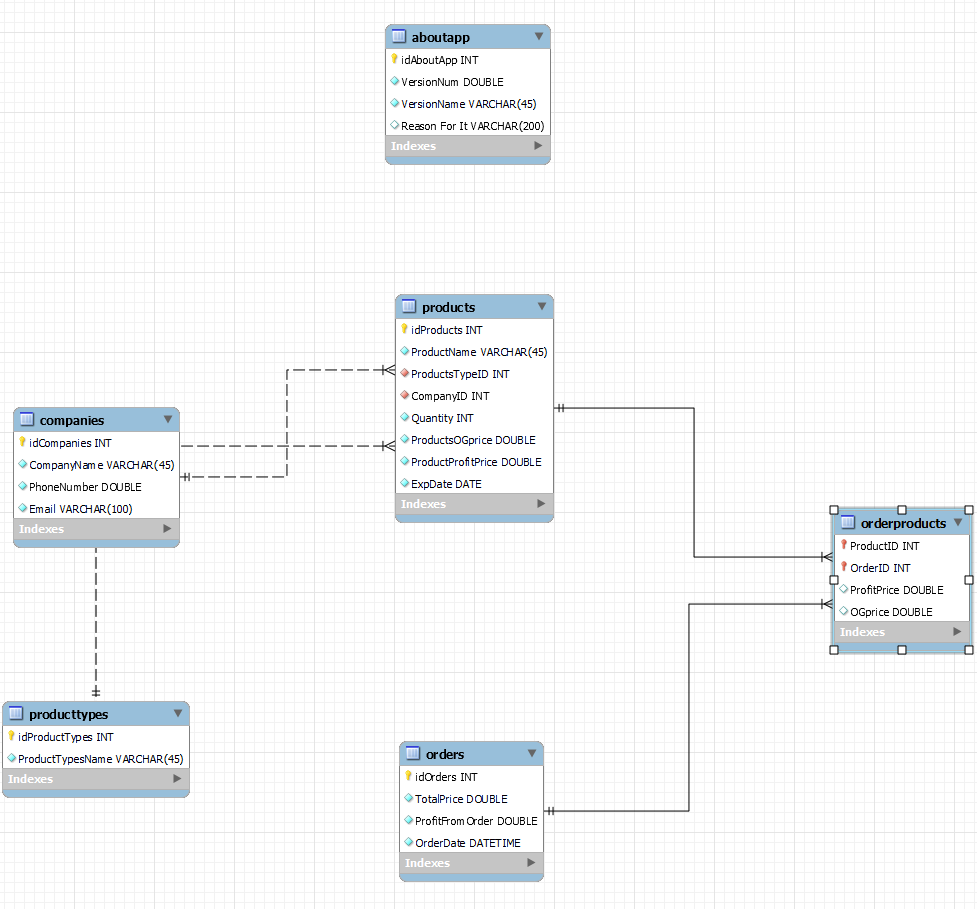
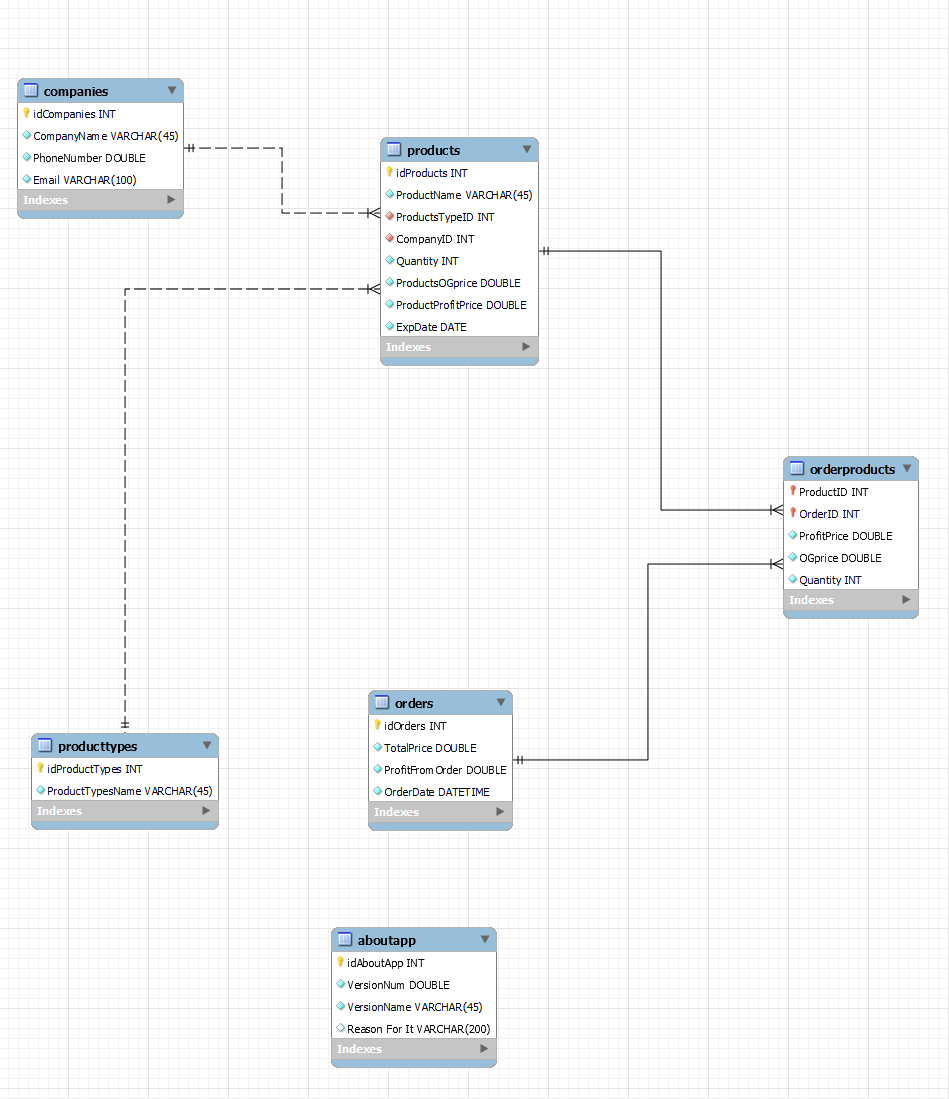
added new function in manageDB class that give you product profit price depending on the quantity ,Working in Add missing order , finshed all of it expect insertOrder , Updated the DB image , changed the design of add missing order in addremoveedit window for easier management when programing

diff --git a/DashBoardDB/AddRemoveEdIt.xaml b/DashBoardDB/AddRemoveEdIt.xaml
@@ -271,7 +271,12 @@
                 </Grid.RowDefinitions>
                 <ComboBox Name="EditType" Width="250" Height="30" VerticalAlignment="Top" FontFamily="fonts/#Dosis" BorderBrush="{x:Null}" SelectionChanged="EditType_SelectionChanged">
                 </ComboBox>
-                <TextBox Name="productnamebox" Text="" TextWrapping="Wrap" MaxHeight="30" MaxWidth="250" Margin="-1,38,1,9" Grid.RowSpan="2"  FontSize="20" FontFamily="fonts/#Dosis" KeyDown="Enter_KeyDown"/>
+                <TextBlock Name="OrderProductNameBlock" IsEnabled="False" Visibility="Hidden" Text="Name:" Margin="62,0,-62,26" FontSize="15" FontFamily="fonts/#Dosis" Foreground="White" Height="25" Grid.Row="1"/>
+                <TextBox Name="OrderProductNameBox" IsEnabled="False" Visibility="Hidden" Grid.Row="1" MaxHeight="30" MaxWidth="175" Background="White" Margin="-108,6,108,45" Grid.RowSpan="2" FontSize="20" FontFamily="fonts/#Dosis" KeyDown="Enter_KeyDown"></TextBox>
+                <TextBlock Name="OrderProductQuantityBlock" IsEnabled="False" Visibility="Hidden" Text="Quantity:" Margin="268,50,-268,27" FontSize="15" FontFamily="fonts/#Dosis" Foreground="White" Height="25" Grid.RowSpan="2"/>
+                <TextBox Name="OrderProductQuantityBox" IsEnabled="False" Visibility="Hidden" Grid.Row="1" MaxHeight="30" MaxWidth="175" Background="White" Margin="97,6,-97,45" Grid.RowSpan="2" FontSize="20" FontFamily="fonts/#Dosis" KeyDown="Enter_KeyDown" PreviewTextInput="missingorderquantitybox_PreviewTextInput"></TextBox>
+                <TextBox Name="productnamebox" Text="" TextWrapping="Wrap" MaxHeight="30" MaxWidth="250" Margin="-1,38,1,9" Grid.RowSpan="2"  FontSize="20" FontFamily="fonts/#Dosis"/>
+
                 <TextBlock Grid.Row="1" Name="productnameblock" Text="Name:" TextWrapping="Wrap" Margin="26,2,290,20" FontSize="15" FontFamily="fonts/#Dosis" Foreground="White" Height="25" />
                 <TextBlock Grid.Row="2" Name="ProductTypeBlock" Text="Type:" TextWrapping="Wrap" Margin="26,2,290,20" FontSize="15" FontFamily="fonts/#Dosis" Foreground="White" Height="25" />
                 <ComboBox Grid.Row="2" Name="TypeBox" Width="250" Height="30" VerticalAlignment="Top" FontFamily="fonts/#Dosis" BorderBrush="{x:Null}" IsEditable="True">
@@ -279,9 +284,20 @@
                 <TextBlock Grid.Row="3" Name="productogpriceblock" Text="Orignal price:" TextWrapping="Wrap" Margin="2,5,318,17" FontSize="13" FontFamily="fonts/#Dosis" Foreground="White"/>
                 <TextBox Name="productojbricebox" Text="" TextWrapping="Wrap" MaxHeight="30" MaxWidth="250" Margin="-1,38,1,9" Grid.RowSpan="2" Grid.Row="2" PreviewTextInput="quantitybox_PreviewTextInput" FontSize="20" FontFamily="fonts/#Dosis"/>
                 <TextBox Name="productpfbricebox" Text="" TextWrapping="Wrap" MaxHeight="30" MaxWidth="250" Margin="-1,38,1,9" Grid.RowSpan="2" Grid.Row="3" PreviewTextInput="quantitybox_PreviewTextInput" FontSize="20" FontFamily="fonts/#Dosis" TextChanged="productpfbricebox_TextChanged" />
-                <ScrollViewer Name="ScrollBar" Grid.Row="2" Grid.RowSpan="4" Visibility="Hidden" IsEnabled="False">
-                    <TextBlock Name="AddProductToOrderBlock" Text="Press Enter to add the product you want" Grid.Row="2" Grid.RowSpan="4" HorizontalAlignment="Center" Visibility="Hidden" FontFamily="fonts/#Dosis" FontSize="20" Foreground="White"></TextBlock>
-                </ScrollViewer>
+                <TextBlock Name="AddProductToOrderBlock" Text="" Grid.Row="2" Grid.RowSpan="4" HorizontalAlignment="Center" Visibility="Hidden" FontFamily="fonts/#Dosis" FontSize="20" Foreground="White">Press Enter to add the product you want</TextBlock>
+                <Grid Name="MissingOrderGrid" Grid.Row="3" Grid.RowSpan="4" IsEnabled="False">
+                    <Grid.ColumnDefinitions>
+                        <ColumnDefinition></ColumnDefinition>
+                        <ColumnDefinition></ColumnDefinition>
+                    </Grid.ColumnDefinitions>
+                    <ScrollViewer Name="ScrollBar" Grid.ColumnSpan="2" Visibility="Hidden" IsEnabled="False">
+                        <TextBox Name="ProductNameAndQuantityBlock" Grid.ColumnSpan="2" Visibility="Hidden" 
+                                 FontFamily="fonts/#Dosis" FontSize="20" Background="{x:Null}"  
+                                  Text="     Product:                                            Quantity:   "  Foreground="White "></TextBox>
+
+                    </ScrollViewer>
+                </Grid>
+
                 <TextBlock Grid.Row="4" Name="productpfpriceblock" Text="Profit price:" TextWrapping="Wrap" Margin="2,4,318,18" FontSize="15" FontFamily="fonts/#Dosis" Foreground="White"/>
                 <TextBlock Grid.Row="5" Name="expdateblock" Text="Exp date:" TextWrapping="Wrap" Margin="14,5,306,17" FontSize="15" FontFamily="fonts/#Dosis" Foreground="White"/>
                 <DatePicker  Name="expdatepciker" FontFamily="fonts/#Dosis" MaxHeight="30" MaxWidth="250" Margin="-2,42,2,5" Grid.RowSpan="2" Grid.Row="4" BorderBrush="{x:Null}"/>

diff --git a/DashBoardDB/AddRemoveEdIt.xaml.cs b/DashBoardDB/AddRemoveEdIt.xaml.cs
@@ -21,6 +21,10 @@ namespace DashBoardDB
         ManageDB managaDB = new();
         List<String> TypesList = new List<String>();
         List<String> CompaniesList = new List<String>();
+        List<String> MissingOrderNames = new List<String>();
+        List<int> MissingOrderQuanties = new List<int>();
+        String MissingOrderProductName = "";
+        Double MissingOrderTotalPrice = 0;
         public AddRemoveEdIt()
         {
             InitializeComponent();
@@ -174,22 +178,39 @@ namespace DashBoardDB
                 return;
             if (EditType.SelectedIndex == 3)
             {
-                productnameblock.Margin = new Thickness(15, 2, 337, 20);
-                productnameblock.Text = "Products:";
-                productnameblock.Visibility = Show;
-                productnamebox.Visibility = Show;
+                MissingOrderGrid.IsEnabled = true;
+                OrderProductNameBlock.IsEnabled = true;
+                OrderProductNameBox.IsEnabled = true;
+                OrderProductQuantityBlock.IsEnabled = true;
+                OrderProductQuantityBox.IsEnabled = true;
+                OrderProductNameBlock.Visibility = Show;
+                OrderProductNameBox.Visibility = Show;
+                OrderProductQuantityBlock.Visibility = Show;
+                OrderProductQuantityBox.Visibility = Show;
                 ScrollBar.Visibility = Show;
                 ScrollBar.IsEnabled = true;
                 AddProductToOrderBlock.Visibility = Show;
+                ProductNameAndQuantityBlock.Visibility = Show;
                 quantityblock.Text = "Price";
                 quantityblock.Visibility = Show;
                 quantitybox.Visibility = Show;
+                quantitybox.Text = "";
                 quantitybox.IsReadOnly = true;
                 Confirm.Visibility = Show;
             }
             else
             {
+                MissingOrderGrid.IsEnabled = false;
+                OrderProductNameBlock.IsEnabled = false;
+                OrderProductNameBox.IsEnabled = false;
+                OrderProductQuantityBlock.IsEnabled = false;
+                OrderProductQuantityBox.IsEnabled = false;
+                OrderProductNameBlock.Visibility = hide;
+                OrderProductNameBox.Visibility = hide;
+                OrderProductQuantityBlock.Visibility = hide;
+                OrderProductQuantityBox.Visibility = hide;
                 AddProductToOrderBlock.Visibility = hide;
+                ProductNameAndQuantityBlock.Visibility = hide;
                 ScrollBar.Visibility = hide;
                 ScrollBar.IsEnabled = false;
                 quantitybox.IsReadOnly = false;
@@ -295,9 +316,14 @@ namespace DashBoardDB
                 Regex regex = new Regex("[^0-9]+");
                 e.Handled = regex.IsMatch(e.Text);
             }
-
         }
-
+        private void missingorderquantitybox_PreviewTextInput(object sender, TextCompositionEventArgs e)
+        {
+            {
+                Regex regex = new Regex("[^0-9]+");
+                e.Handled = regex.IsMatch(e.Text);
+            }
+        }
         private void productpfbricebox_TextChanged(object sender, TextChangedEventArgs e)
         {
 
@@ -323,16 +349,38 @@ namespace DashBoardDB
         }
         private void Enter_KeyDown(object sender, KeyEventArgs e)
         {
-            if (addflag == true)
+            
+            if (e.Key == Key.Return)
             {
-                if (EditType.SelectedIndex == 3)
+                if (OrderProductNameBox.Text == "")
                 {
-                    if (e.Key == Key.Return)
-                    {
-                        string ProductName = productnamebox.Text;
-                        AddProductToOrderBlock.Text += Environment.NewLine + productnamebox.Text;
-                    }
+                    MessageBox.Show("Please Enter The Product Name!");
+                    return;
                 }
+                int MissingOrderProductQuantity = 1;
+                Double MissingOrderTotalPriceForLastProduct = 0;
+                if (OrderProductNameBox.Text.Length > 5)
+                {
+                    MissingOrderProductName = OrderProductNameBox.Text.Substring(0, 5);
+                    MissingOrderProductName += "..";
+                }
+                else
+                    MissingOrderProductName = OrderProductNameBox.Text;
+                if (OrderProductQuantityBox.Text != "")
+                    MissingOrderProductQuantity = Convert.ToInt32(OrderProductQuantityBox.Text);
+                MissingOrderTotalPriceForLastProduct = managaDB.GetProductPriceWithQuantity(OrderProductNameBox.Text, MissingOrderProductQuantity);
+                if(MissingOrderTotalPriceForLastProduct == 0)
+                {
+                    MessageBox.Show("Product Deos Not exist in DB");
+                    return;
+                }
+                MissingOrderNames.Add(MissingOrderProductName);
+                MissingOrderQuanties.Add(MissingOrderProductQuantity);
+                ProductNameAndQuantityBlock.Text += Environment.NewLine + "      " + MissingOrderProductName + "                                                  " + MissingOrderProductQuantity.ToString();
+                OrderProductNameBox.Text = "";
+                OrderProductQuantityBox.Text = "";
+                MissingOrderTotalPrice += MissingOrderTotalPriceForLastProduct;
+                quantitybox.Text = MissingOrderTotalPrice.ToString();
             }
         }
         private void Confirm_Click(object sender, RoutedEventArgs e)

diff --git a/DashBoardDB/ManageDB.cs b/DashBoardDB/ManageDB.cs
@@ -74,6 +74,10 @@ namespace DashBoardDB
                 return false;
             return true;
         }
+        public bool InsertOrder(List<String> ProductNames, List<int> ProductQuanties, Double TotalProfitPrice , DateTime OrderDate)
+        {
+            return true;
+        }
         public bool DeleteRecord(String TableName, String ColumnName, String ColumValue)
         {
             String SQLstatemnt = "";
@@ -143,6 +147,19 @@ namespace DashBoardDB
                 reader.Close();
             }
             return CompanyName;
+        }
+        public Double GetProductPriceWithQuantity(String ProductName ,int Quantity)
+        {
+            Double TotalPrice = 0;// = ProfitPrice*Quantity
+            String SQLstatemnt = "SELECT ProductProfitPrice FROM `products` WHERE ProductName LIKE '%" + ProductName + "%'";
+            using (cmd = new MySqlCommand(SQLstatemnt, connection))
+            {
+                var ProductNotExist = cmd.ExecuteScalar();
+                if (ProductNotExist is not DBNull)
+                    TotalPrice = Convert.ToDouble(ProductNotExist);
+            }
+            TotalPrice *= Quantity;
+            return TotalPrice;
         }
     }
 }
